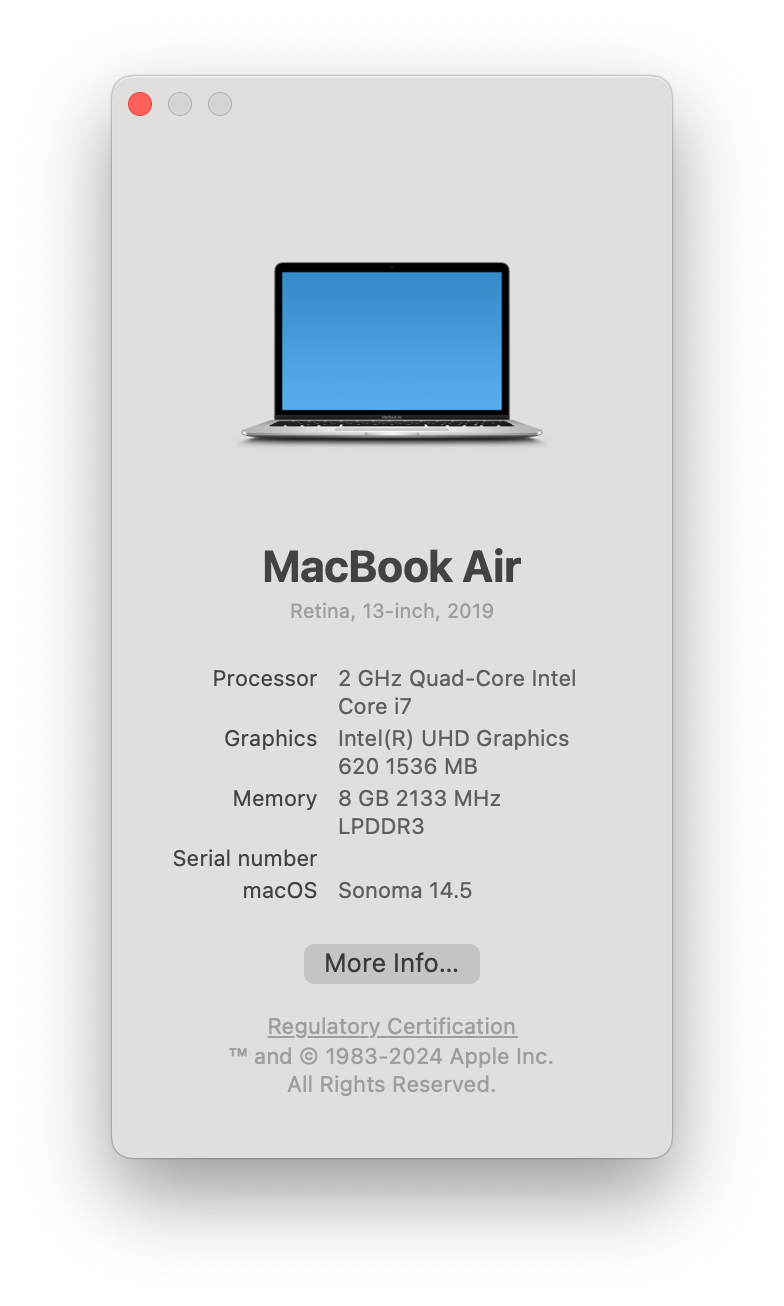
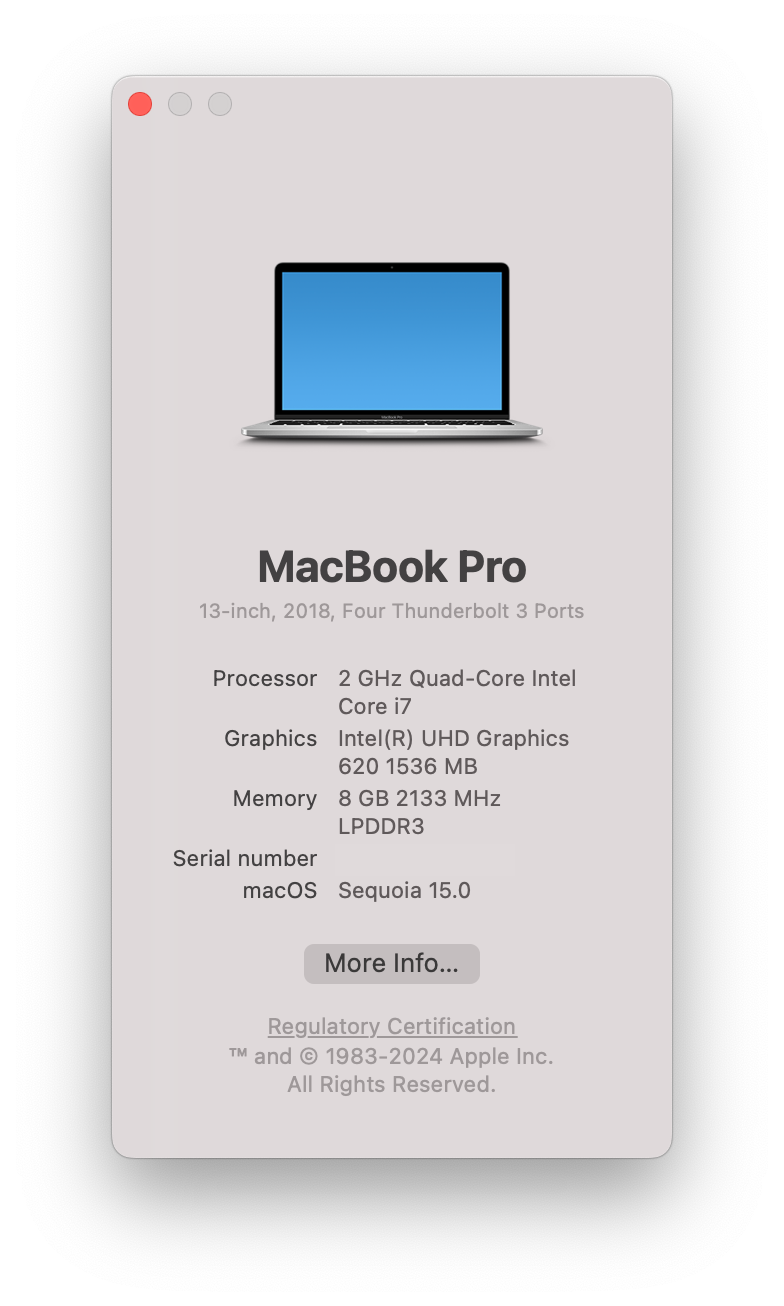
Update to OpenCore 1.0.1 & macOS Sequoia 15.0 Beta 7

diff --git a/Readme.md b/Readme.md
@@ -49,7 +49,7 @@ I published [**a YouTube video**](https://www.youtube.com/watch?v=vpgAqfrBI44) f
 -----
 
 
-#### This repository is currently compatible with macOS Sonoma, Ventura, Monterey, Big Sur and OpenCore 1.0.0
+#### This repository is currently compatible with macOS Sequoia, Sonoma, Ventura, Monterey, Big Sur and OpenCore 1.0.1
 <div align="center">
 
 |    macOS    |   |   Status   |
@@ -107,7 +107,7 @@ Compare with [these](https://browser.geekbench.com/v5/cpu/search?utf8=✓&q=MacB
 
 ## Changelog
 
-#### 2024 - June - 09
+#### 2024 - August - 25
 See [**Current status »**](Changelog.md)
 
 <p align="center">
@@ -407,7 +407,7 @@ For reference, see [Thunderbolt 3 Fix](https://osy.gitbook.io/hac-mini-guide/det
 
 
 ## Bootloader Firmware
-- Default bootloader: `OpenCore 1.0.0` [Official release](https://github.com/acidanthera/OpenCorePkg/releases).
+- Default bootloader: `OpenCore 1.0.1` [Official release](https://github.com/acidanthera/OpenCorePkg/releases).
     - Support macOS 10.15 ~ latest macOS release
     - As theme for `OpenCanopy`, a cleaner version with custom graphics has been provided by [**@R-Teer**](https://github.com/R-Teer)
     - See more info in [Wiki section](https://github.com/profzei/Matebook-X-Pro-2018/wiki/Converting-from-Clover-to-OpenCore) about migration from Clover.
@@ -896,25 +896,25 @@ log show --predicate 'process == "kernel"' --style syslog --source --debug --las
 
 | Item | Version | Remark |
 | :--- | :--- | :--- |
-| MacOS | 14.5 | |
-| [OpenCore](https://github.com/acidanthera/OpenCorePkg/releases) | 1.0.0| Default Bootloader |
-| [Lilu](https://github.com/acidanthera/Lilu/releases) | 1.6.7 | Kext/process/framework/library patcher |
-| [WhateverGreen](https://github.com/acidanthera/whatevergreen/releases) | 1.6.6 | Handle Graphics card |
-| [AppleALC](https://github.com/acidanthera/AppleALC/releases) | 1.8.9 | Handle/fix onboard audio |
+| MacOS | 14.6.1 | |
+| [OpenCore](https://github.com/acidanthera/OpenCorePkg/releases) | 1.0.1| Default Bootloader |
+| [Lilu](https://github.com/acidanthera/Lilu/releases) | 1.6.8 | Kext/process/framework/library patcher |
+| [WhateverGreen](https://github.com/acidanthera/whatevergreen/releases) | 1.6.7 | Handle Graphics card |
+| [AppleALC](https://github.com/acidanthera/AppleALC/releases) | 1.9.1 | Handle/fix onboard audio |
 | [CodecCommander](https://github.com/Sniki/EAPD-Codec-Commander/releases) | 2.7.2 | Fix headphone audio switch |
-| [CPUFriend](https://github.com/acidanthera/CPUFriend/releases) | 1.2.7 | Power management |
-| [HibernationFixup](https://github.com/acidanthera/HibernationFixup/releases) | 1.4.9 | Handle hibernate status |
+| [CPUFriend](https://github.com/acidanthera/CPUFriend/releases) | 1.2.8 | Power management |
+| [HibernationFixup](https://github.com/acidanthera/HibernationFixup/releases) | 1.5.1 | Handle hibernate status |
 | [IntelBluetoothFirmware](https://github.com/OpenIntelWireless/IntelBluetoothFirmware/releases) | 2.4.0 | Handle Bluetooth |
-| [AirportItlwm](https://github.com/OpenIntelWireless/itlwm/releases) | 2.3.0 alpha | Handle native Wi-Fi card |
+| [AirportItlwm](https://github.com/OpenIntelWireless/itlwm/releases) | 2.3.0 | Handle native Wi-Fi card |
 | [BlueToolFixup](https://github.com/acidanthera/BrcmPatchRAM/releases) | 2.6.8 | Fix Bluetooth for macOS 12+ |
 | [NullEthernet](https://bitbucket.org/RehabMan/OS-X-Null-Ethernet/downloads/) | 1.0.6 | Fake Ethernet card |
 | [NoTouchID](https://github.com/al3xtjames/NoTouchID/releases) | 1.0.4 | Disable TouchID |
 | [NVMeFix](https://github.com/acidanthera/NVMeFix/releases) | 1.1.1 | Fix for NVMe SSDs |
-| [RestrictEvents](https://github.com/acidanthera/RestrictEvents/releases) | 1.1.3 | Block unwanted processes |
-| [VoodooI2C](https://github.com/alexandred/VoodooI2C/releases) | 2.8 | Handle I2C device |
-| [VoodooI2CHID](https://github.com/alexandred/VoodooI2C/releases) | 2.8 | Touchpad I2C satellite |
-| [VoodooPS2Controller](https://github.com/acidanthera/VoodooPS2/releases) | 2.3.3 | Enable keyboard, alternative trackpad driver |
-| [VirtualSMC + plugins](https://github.com/acidanthera/VirtualSMC/releases) | 1.3.2 | SMC chip emulation |
+| [RestrictEvents](https://github.com/acidanthera/RestrictEvents/releases) | 1.1.4 | Block unwanted processes |
+| [VoodooI2C](https://github.com/alexandred/VoodooI2C/releases) | 2.9 | Handle I2C device |
+| [VoodooI2CHID](https://github.com/alexandred/VoodooI2C/releases) | 2.9 | Touchpad I2C satellite |
+| [VoodooPS2Controller](https://github.com/acidanthera/VoodooPS2/releases) | 2.3.5 | Enable keyboard, alternative trackpad driver |
+| [VirtualSMC + plugins](https://github.com/acidanthera/VirtualSMC/releases) | 1.3.3 | SMC chip emulation |
 | [USBInjectAll](https://github.com/daliansky/OS-X-USB-Inject-All/releases) | 0.7.7 | Inject USB ports |
 | [VoltageShift](https://github.com/sicreative/VoltageShift) | 1.25 | Undervoltage tool |
 

diff --git a/Changelog.md b/Changelog.md
@@ -2,9 +2,59 @@
 
 English
 
+- **08-25-2024**
+
+	Update to **macOS Sequoia 15.0 (24A5327a)** Beta 7
+	
+	> [!IMPORTANT]
+	>
+	> - Change `Misc -> Security -> SecureBootModel` from `Default` to `Disabled` prior to updating to **macOS Sequoia**. You can re-enable it afterwards; otherwise the update (or new install) fails!
+	> - Since **macOS Sequoia** dropped support for `MacBookAir8,2` (MacBook Air 2018), I **switched back** to `MacBookPro15,2`.
+	
+	**Update**
+	- Update [kext] `BlueToolFixup` v. 2.6.9 beta
+	- Update [kext] `IntelBluetoothFirmware` v. 2.5.0 beta (for macOS Sequoia support)
+	- Update [kext] `VoodooI2C` & its satellite `VoodooI2CHID` v. 2.9 beta: added confidence bit for palm rejection [Reference](https://github.com/VoodooI2C/VoodooI2C/pull/547)
+	- Update [kext] `VoodooInput` v. 1.1.5: since **macOS Sequoia** dropped the IOKit personalities for the older SPI touchpads (including the one used by `VoodooInput`), now it is used `MacbookAir10,1` ID instead of SPI touchpad ID on macOS 12+
+	
+	> [!CAUTION]
+	> 
+	> After upgrading to **macOS Sequoia Beta 7**, the current state is the following:
+	> - its installation is less problematic than previous versions of macOS that required deeper changes to `OpenCore` and kexts;
+	> - the system feels snappier and more responsive than latest macOS Sonoma release;
+	> - disabled [kext] `AirportItlwm` and enabled [kext] `itlwm` (+ `Heliport` app): atm there is no support for [kext] `AirportItlwm` while latest `itlwm` is working fine;
+	> - Bluetooth support seems to be broken (i.e. device is not recognized): atm [kext] `IntelBluetoothFirmware` v. 2.5.0 beta seems working fine only on specific devices and/or on specific Beta releases...
+	> - sleep is not working... (the screen goes black but the PC stays on): I'm waiting for Release Candidate support (this issue could be related to beta stage)
+
+- **08-24-2024**
+
+	Update to **macOS Sonoma 14.6.1 (23G93)**
+	
+	> [!IMPORTANT]
+	>
+	> Change `Misc -> Security -> SecureBootModel` from `Default` to `Disabled` prior to updating to macOS 14.4+ (or new install). You can re-enable it afterwards; otherwise the update fails!
+	
+    **Update**
+    - Update `OpenCore` v. 1.0.1
+    - Update [kext] stripped `AppleALC` v. 1.9.1
+	- Update [kext] `CPUFriend` v. 1.2.8
+	- Update [kext] `DebugEnhancer` v. 1.0.9
+    - Update [kext] `HibernationFixup` v. 1.5.1
+	- Update [kext] `Lilu` v. 1.6.8
+	- Update [kext] `RestrictEvents` v. 1.1.4
+	- Update [kext] `VirtualSMC` + plugins v. 1.3.3
+	- Update [kext] `VoodooPS2Controller` v. 2.3.5
+    - Update [kext] `WhateverGreen` v. 1.6.7
+    - Update [kext] stripped `AirportItlwm_Sonoma` v. 2.3.0 stable
+    - Update [kext] stripped `IntelBluetoothFirmware` v. 2.4.0 stable (with some changes to default code for improving LE devices support)
+
 - **06-09-2024**
 
-	Update to **macOS Sonoma 14.5 (23F79)**: during the update process, change in `config.plist` of your `EFI/OC` boot folder the entry `Misc -> Security -> SecureBootModel` from `Default` to `Disabled`; this fixes a known issue where macOS 14.4+ upgrade (or new install) will start to install, but will constantly reboot after the first (install-driven) reboot.
+	Update to **macOS Sonoma 14.5 (23F79)**
+
+	> [!IMPORTANT]
+	>
+	> During the update process, change in `config.plist` of your `EFI/OC` boot folder the entry `Misc -> Security -> SecureBootModel` from `Default` to `Disabled`; this fixes a known issue where macOS 14.4+ upgrade (or new install) will start to install, but will constantly reboot after the first (install-driven) reboot.
 	
     **Update**
     - Update `OpenCore` v. 1.0.0
